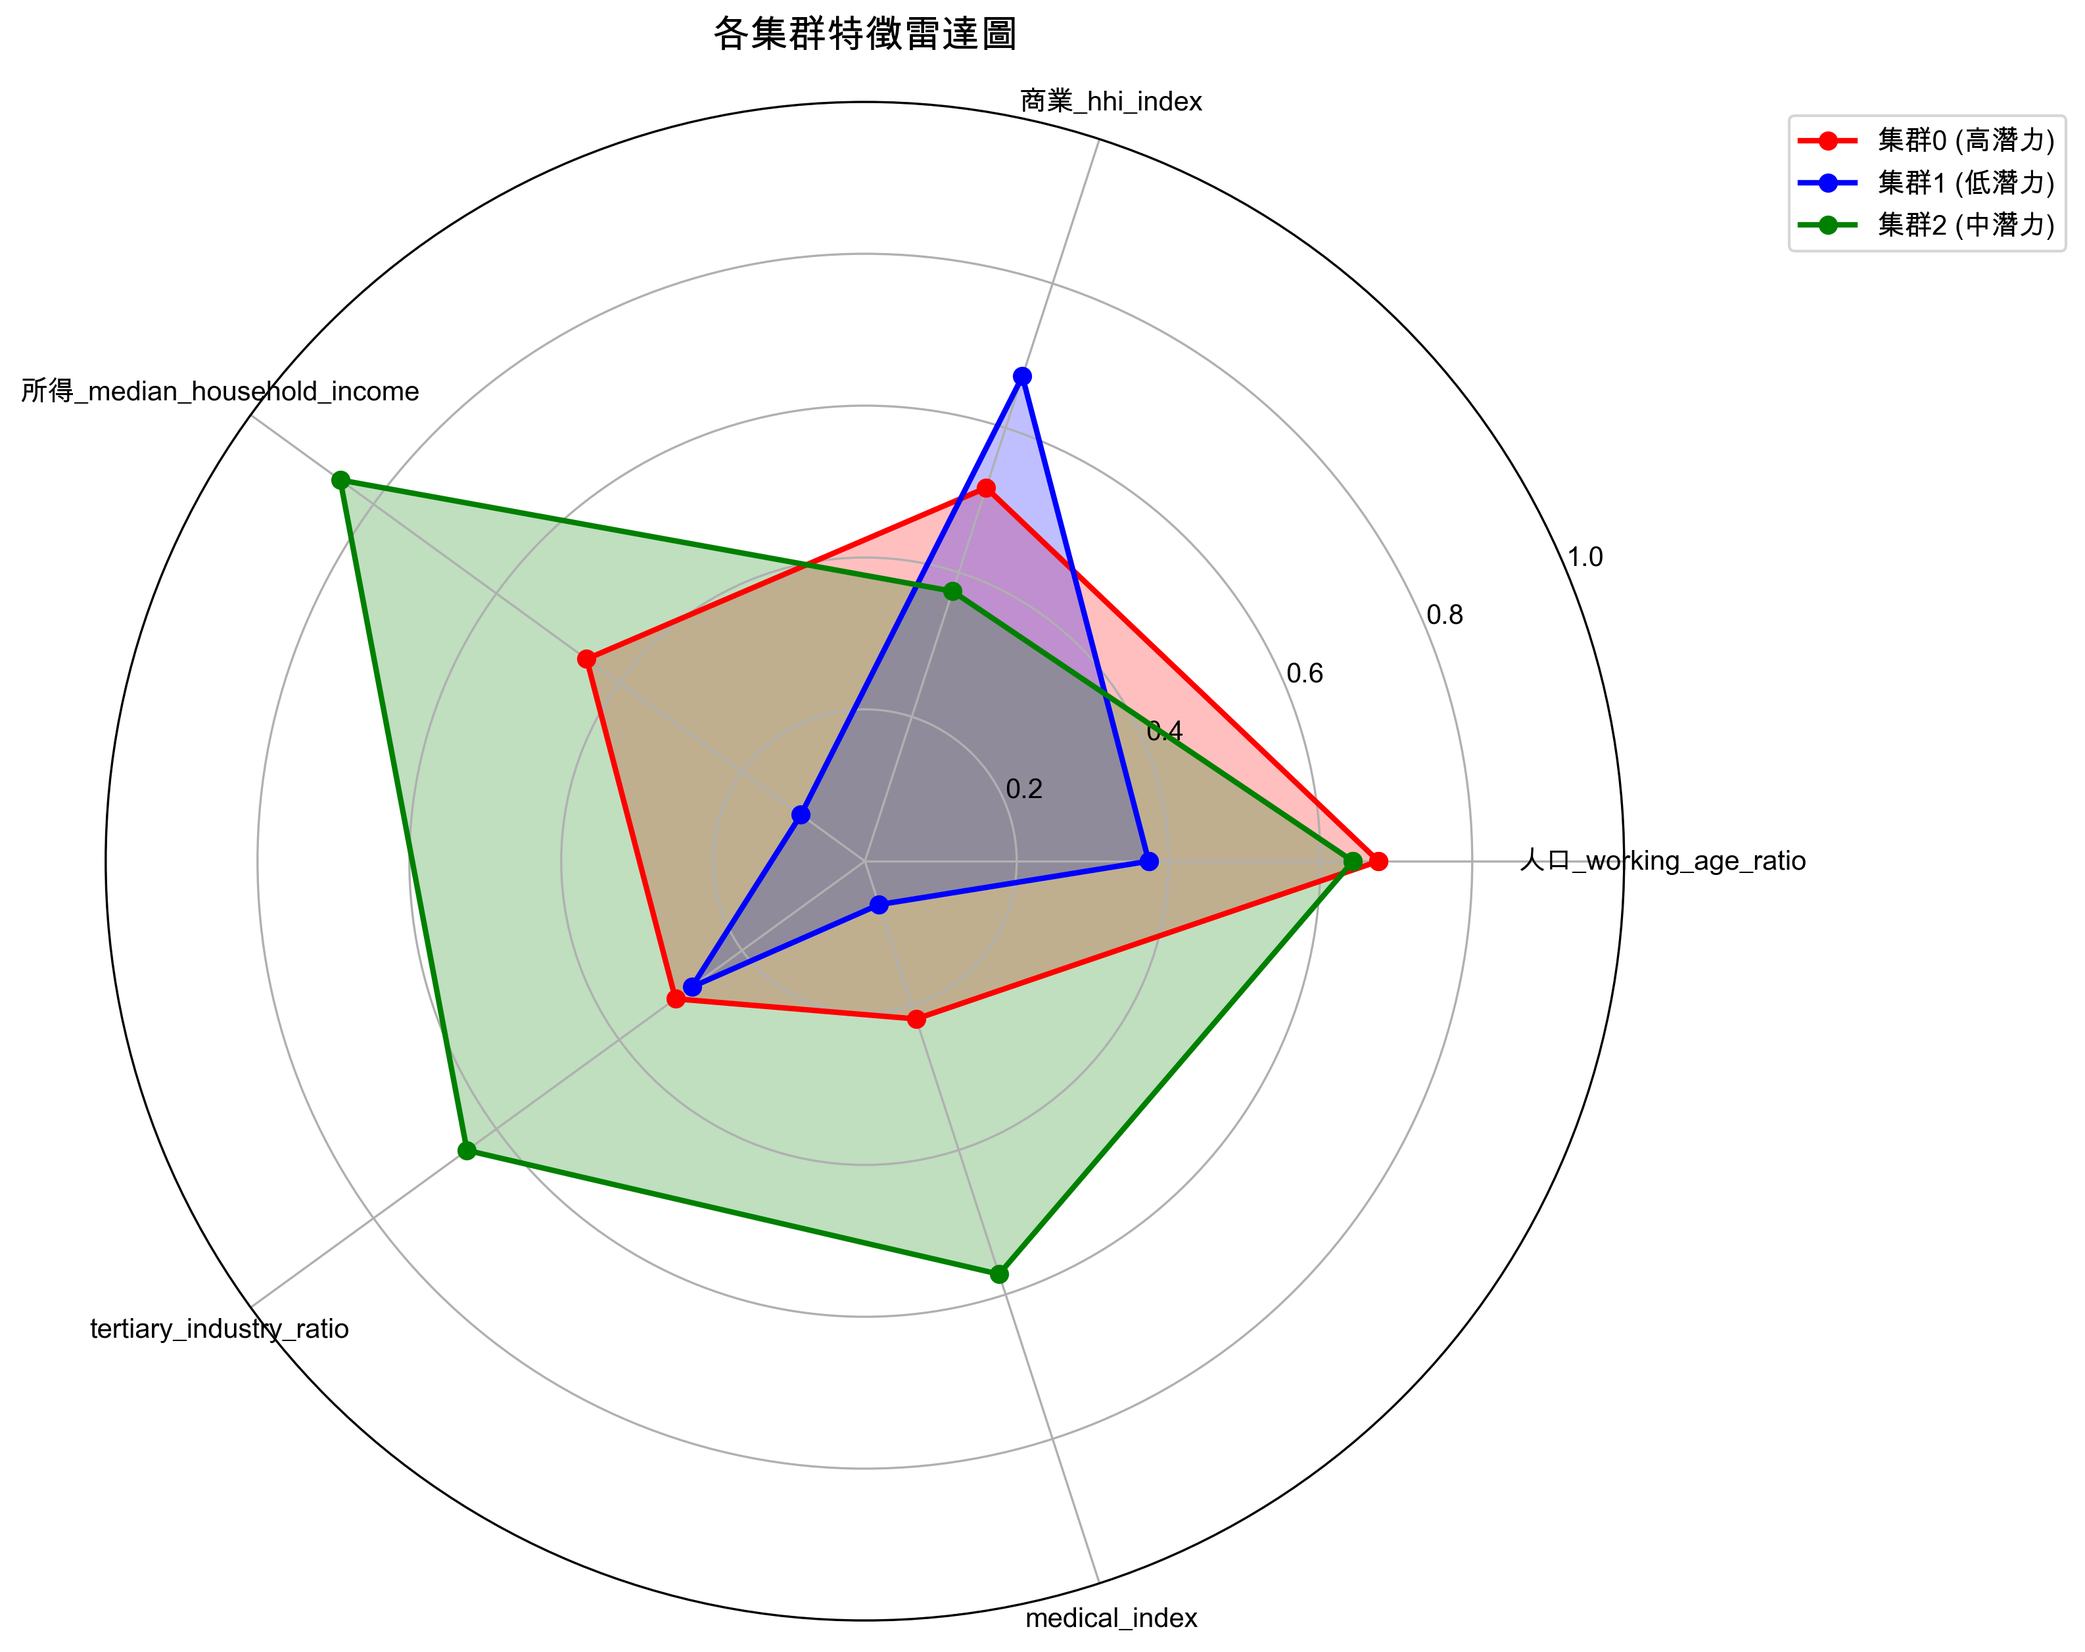
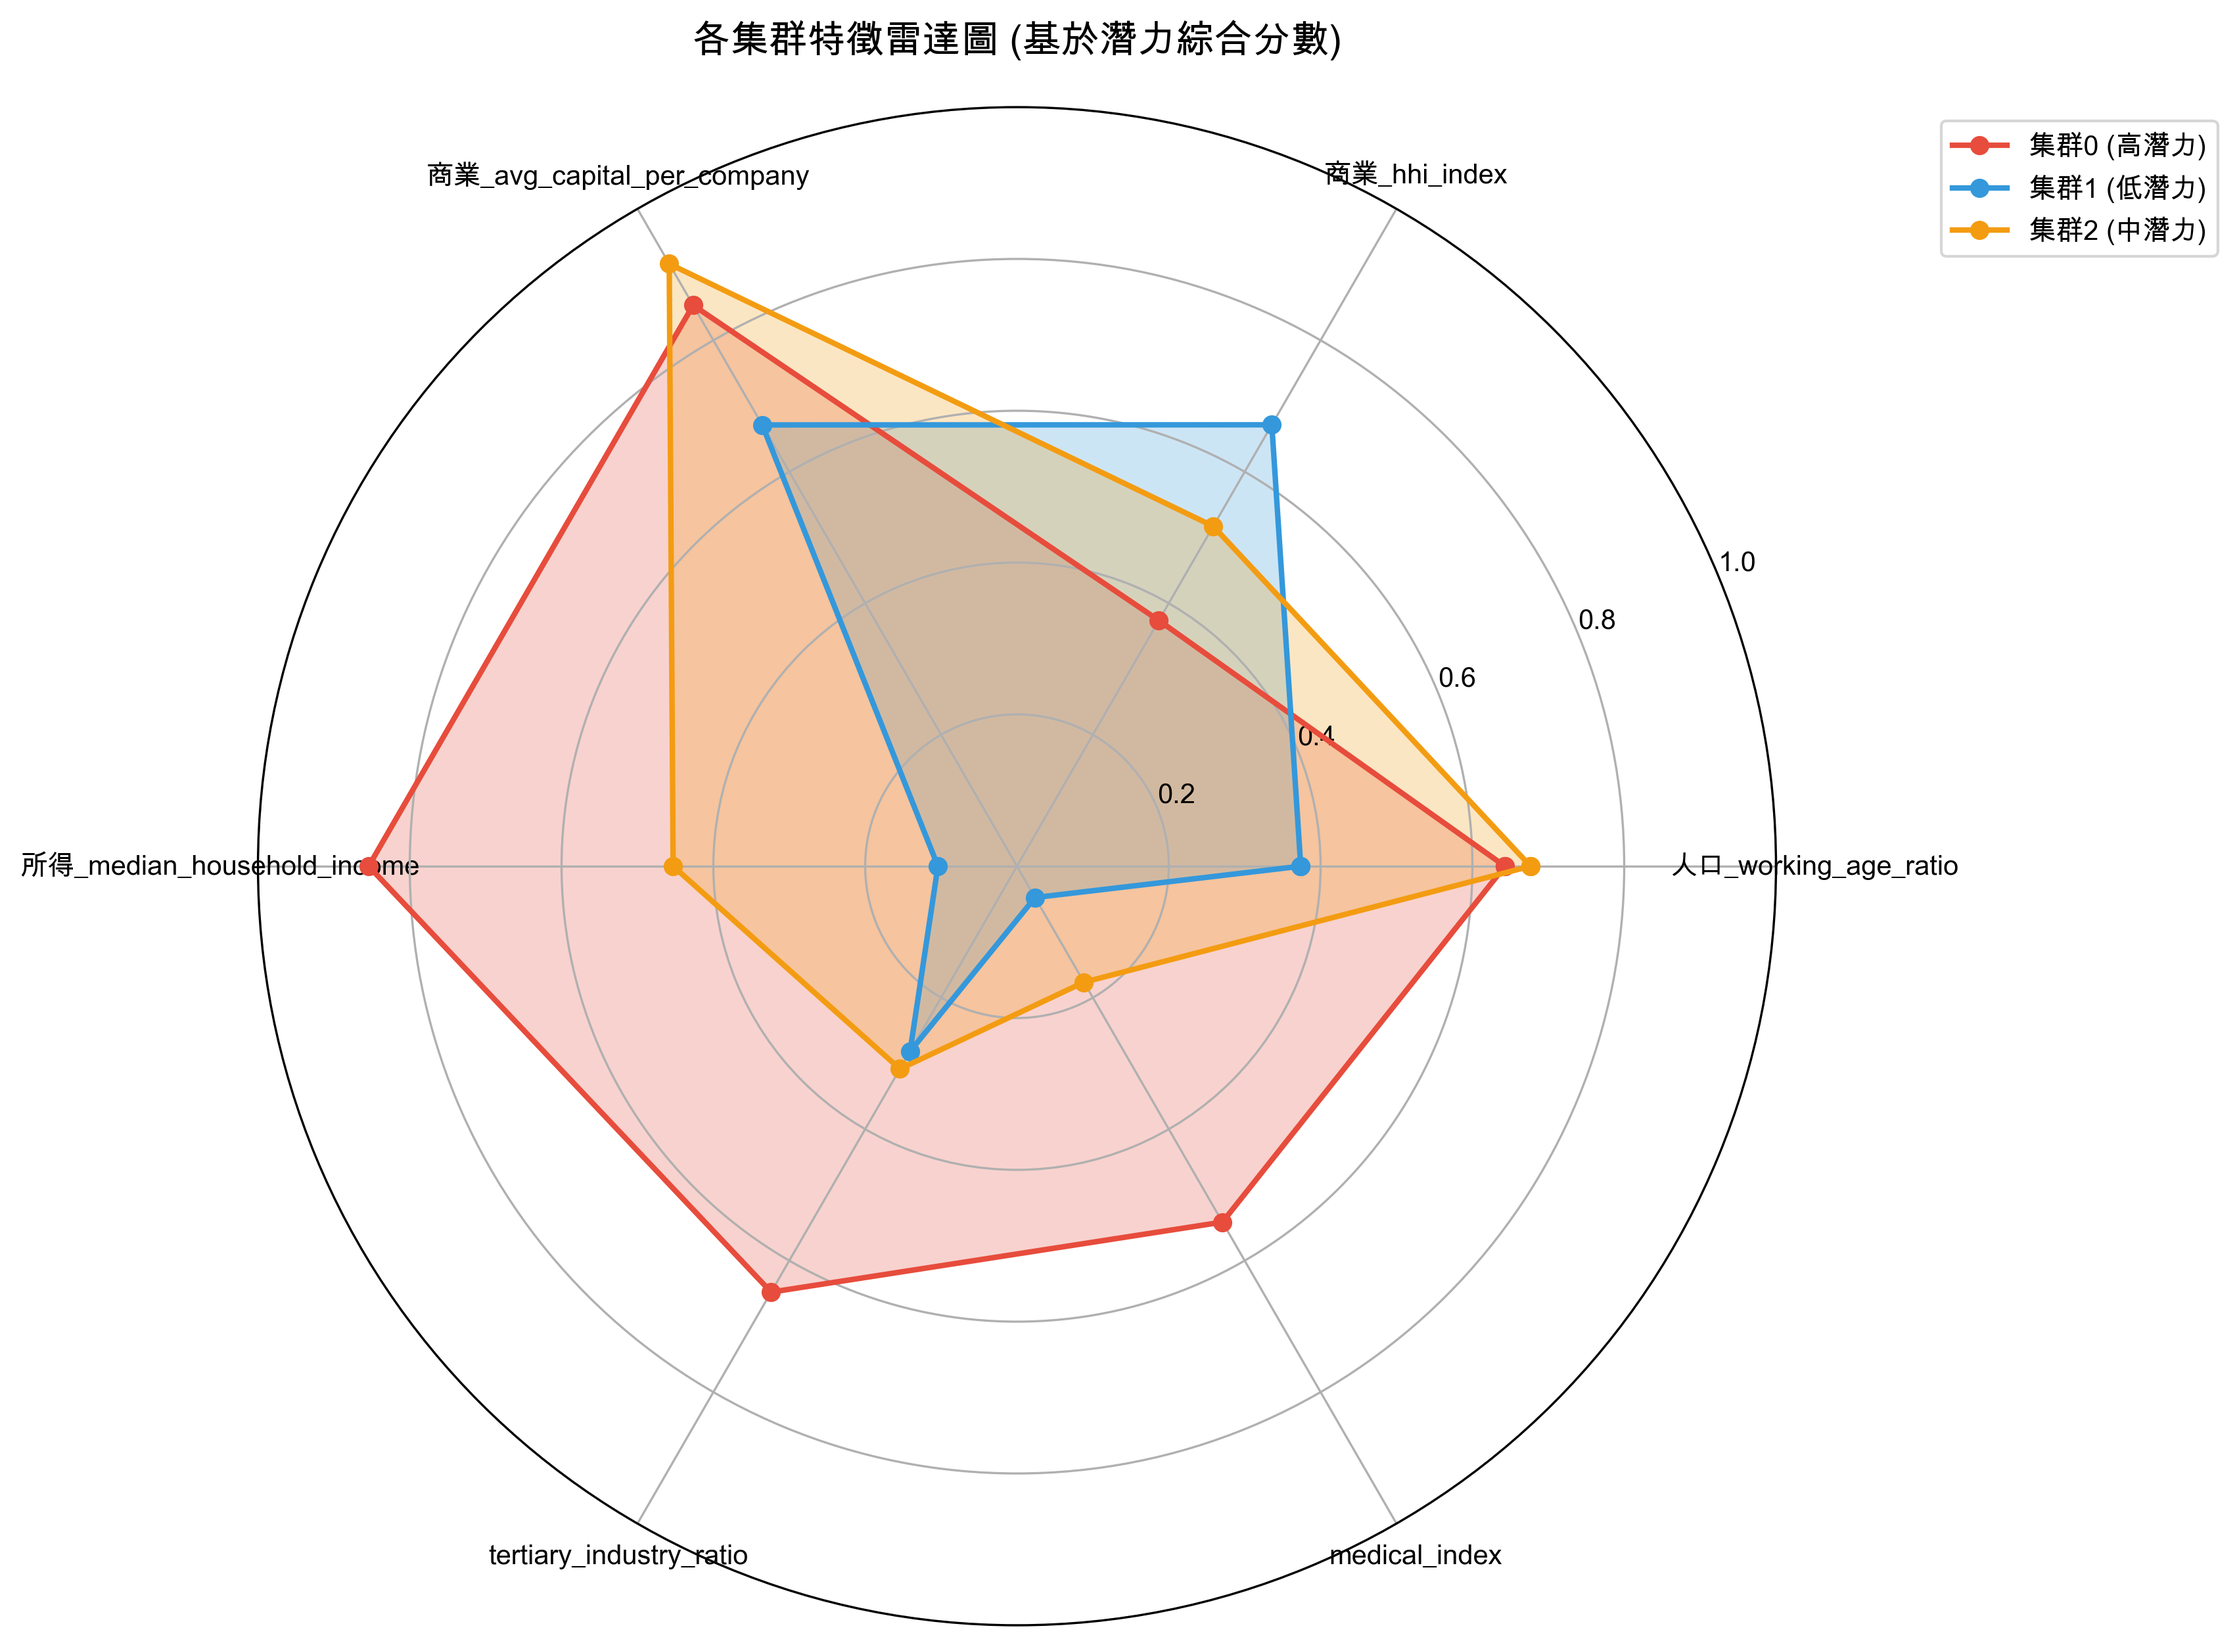
Update STEP4 with comprehensive evaluation (geometric quality + semantic consistency)

diff --git a/docs/index.html b/docs/index.html
@@ -47,6 +47,8 @@
                 </div>
                 <div class="chart-info">
                     <p><strong>輪廓係數:</strong> 0.463 (良好)</p>
+                    <p><strong>語義一致性:</strong> 0.794 (優秀)</p>
+                    <p><strong>綜合評估:</strong> 0.711 (良好)</p>
                     <p><strong>分析方法:</strong> t-SNE降維 + Ward層次聚類 + 潛力綜合分數</p>
                 </div>
             </section>

diff --git a/step4_cluster_validation_interpretation.py b/step4_cluster_validation_interpretation.py
@@ -1,10 +1,12 @@
 """
-STEP 4 - 群集驗證與解讀
+STEP 4 - 群集驗證與解讀 (綜合評估版)
 
 包含：
 1. 群內/群間距離分析
-2. Silhouette分數計算
-3. 箱型圖和雷達圖視覺化
+2. Silhouette分數計算 (幾何質量)
+3. 潛力分數一致性評估 (語義質量)
+4. 箱型圖和雷達圖視覺化
+5. 綜合評估報告
 """
 
 import pandas as pd
@@ -15,6 +17,7 @@ from sklearn.manifold import TSNE
 from sklearn.cluster import AgglomerativeClustering
 from sklearn.metrics import silhouette_score, silhouette_samples
 from sklearn.metrics import pairwise_distances
+from scipy import stats
 import warnings
 import os
 import matplotlib
@@ -47,11 +50,18 @@ def load_data_and_cluster():
     ward = AgglomerativeClustering(n_clusters=3, linkage='ward')
     cluster_labels = ward.fit_predict(X_tsne)
     
-    return X, X_tsne, cluster_labels, districts, feature_names, df
+    # 載入聚類結果（包含潛力等級）
+    cluster_results = pd.read_csv('output/clustering_results.csv')
+    potential_labels = []
+    for district in districts:
+        row = cluster_results[cluster_results['行政區'] == district]
+        potential_labels.append(row['潛力等級'].iloc[0])
+    
+    return X, X_tsne, cluster_labels, districts, feature_names, df, potential_labels, cluster_results
 
 def analyze_cluster_distances(X_tsne, cluster_labels, districts):
     """分析群內/群間距離"""
-    print("\n📐 群內/群間距離分析")
+    print("\n📐 群內/群間距離分析 (幾何質量)")
     print("="*40)
     
     # 計算群內距離（Within-cluster distance）
@@ -99,18 +109,29 @@ def analyze_cluster_distances(X_tsne, cluster_labels, districts):
         db_scores.append(max_ratio)
     
     db_index = np.mean(db_scores)
-    print(f"\n📊 Davies-Bouldin 指數: {db_index:.3f} (越小越好)")
+    print(f"\n📊 Davies-Bouldin 指數: {db_index:.3f} (越小越好，<1.5為良好)")
     
     return within_cluster_distances, between_distances
 
 def analyze_silhouette_scores(X_tsne, cluster_labels, districts):
     """詳細的Silhouette分析"""
-    print("\n🎯 Silhouette 分數分析")
+    print("\n🎯 Silhouette 分數分析 (幾何質量)")
     print("="*40)
     
     # 整體Silhouette分數
     overall_silhouette = silhouette_score(X_tsne, cluster_labels)
     print(f"整體 Silhouette 分數: {overall_silhouette:.3f}")
+    
+    # 解釋分數
+    if overall_silhouette > 0.7:
+        quality = "優秀"
+    elif overall_silhouette > 0.4:
+        quality = "良好"  
+    elif overall_silhouette > 0.2:
+        quality = "一般"
+    else:
+        quality = "較差"
+    print(f"幾何聚類質量: {quality}")
     
     # 各點的Silhouette分數
     sample_silhouettes = silhouette_samples(X_tsne, cluster_labels)
@@ -129,6 +150,95 @@ def analyze_silhouette_scores(X_tsne, cluster_labels, districts):
         print(f"  集群 {cluster_id}: {avg_silhouette:.3f}")
     
     return sample_silhouettes
+
+def evaluate_potential_consistency(cluster_results):
+    """評估潛力分數與聚類結果的一致性"""
+    print("\n🧮 潛力分數一致性評估 (語義質量)")
+    print("="*40)
+    
+    # 計算各集群的潛力分數統計
+    cluster_stats = {}
+    for cluster_id in range(3):
+        cluster_data = cluster_results[cluster_results['集群編號'] == cluster_id]
+        potential_scores = cluster_data['潛力分數'].values
+        
+        cluster_stats[cluster_id] = {
+            'count': len(cluster_data),
+            'districts': cluster_data['行政區'].tolist(),
+            'potential_level': cluster_data['潛力等級'].iloc[0],
+            'mean_score': potential_scores.mean(),
+            'std_score': potential_scores.std(),
+            'min_score': potential_scores.min(),
+            'max_score': potential_scores.max()
+        }
+        
+        print(f"集群 {cluster_id} ({cluster_stats[cluster_id]['potential_level']}):")
+        print(f"  行政區: {', '.join(cluster_stats[cluster_id]['districts'])}")
+        print(f"  潛力分數: {cluster_stats[cluster_id]['mean_score']:.3f} ± {cluster_stats[cluster_id]['std_score']:.3f}")
+        print(f"  分數範圍: [{cluster_stats[cluster_id]['min_score']:.3f}, {cluster_stats[cluster_id]['max_score']:.3f}]")
+    
+    # 計算集群間分離度 (潛力分數)
+    print(f"\n集群間潛力分數分離度:")
+    cluster_means = [cluster_stats[i]['mean_score'] for i in range(3)]
+    separation_score = max(cluster_means) - min(cluster_means)
+    print(f"  分數範圍跨度: {separation_score:.3f}")
+    
+    # 檢查集群內一致性
+    print(f"\n集群內一致性檢查:")
+    consistency_scores = []
+    for cluster_id in range(3):
+        std = cluster_stats[cluster_id]['std_score']
+        consistency = 1 / (1 + std)  # 標準差越小，一致性越高
+        consistency_scores.append(consistency)
+        print(f"  集群 {cluster_id}: 一致性分數 = {consistency:.3f} (越接近1越好)")
+    
+    overall_consistency = np.mean(consistency_scores)
+    print(f"\n🎯 總體語義一致性: {overall_consistency:.3f}")
+    
+    return cluster_stats, overall_consistency
+
+def calculate_comprehensive_score(silhouette_score, consistency_score, db_index):
+    """計算綜合評估分數"""
+    print("\n🏆 綜合評估分數")
+    print("="*40)
+    
+    # 正規化各指標 (0-1範圍)
+    # Silhouette: 0.463 -> 約 0.6 (在 0-1 範圍內)
+    norm_silhouette = max(0, min(1, (silhouette_score + 1) / 2))  # 從 [-1,1] 轉換到 [0,1]
+    
+    # 一致性: 已經在 0-1 範圍
+    norm_consistency = consistency_score
+    
+    # Davies-Bouldin: 越小越好，1.112 -> 約 0.47 (1/(1+DB))
+    norm_db = 1 / (1 + db_index)
+    
+    print(f"標準化指標:")
+    print(f"  幾何質量 (Silhouette): {norm_silhouette:.3f}")
+    print(f"  語義一致性: {norm_consistency:.3f}")
+    print(f"  分離度 (Davies-Bouldin): {norm_db:.3f}")
+    
+    # 計算加權綜合分數
+    weights = [0.3, 0.5, 0.2]  # 更重視語義一致性
+    comprehensive_score = (
+        weights[0] * norm_silhouette + 
+        weights[1] * norm_consistency + 
+        weights[2] * norm_db
+    )
+    
+    print(f"\n🎯 綜合評估分數: {comprehensive_score:.3f}")
+    
+    if comprehensive_score > 0.8:
+        grade = "優秀"
+    elif comprehensive_score > 0.6:
+        grade = "良好"
+    elif comprehensive_score > 0.4:
+        grade = "一般"
+    else:
+        grade = "需改進"
+    
+    print(f"綜合評級: {grade}")
+    
+    return comprehensive_score
 
 def create_boxplots(df, cluster_labels, feature_names):
     """創建箱型圖比較各群特徵分布"""
@@ -162,7 +272,7 @@ def create_boxplots(df, cluster_labels, feature_names):
     
     return boxplot_path
 
-def create_radar_chart(X, cluster_labels, feature_names, districts):
+def create_radar_chart(X, cluster_labels, feature_names, districts, potential_labels):
     """創建雷達圖展示各群特徵平均值"""
     print("\n🕸 創建雷達圖...")
     
@@ -173,10 +283,16 @@ def create_radar_chart(X, cluster_labels, feature_names, districts):
     
     # 計算各群特徵平均值
     cluster_means = []
+    cluster_labels_unique = []
     for cluster_id in range(3):
         cluster_mask = cluster_labels == cluster_id
         means = X_scaled[cluster_mask].mean(axis=0)
         cluster_means.append(means)
+        
+        # 獲取該集群的潛力等級
+        cluster_districts = [districts[i] for i in range(len(districts)) if cluster_labels[i] == cluster_id]
+        cluster_potential = potential_labels[cluster_labels.tolist().index(cluster_id)]
+        cluster_labels_unique.append(f'集群{cluster_id} ({cluster_potential})')
     
     # 設定雷達圖
     angles = np.linspace(0, 2 * np.pi, len(feature_names), endpoint=False).tolist()
@@ -184,21 +300,20 @@ def create_radar_chart(X, cluster_labels, feature_names, districts):
     
     fig, ax = plt.subplots(figsize=(10, 10), subplot_kw=dict(projection='polar'))
     
-    colors = ['red', 'blue', 'green']
-    labels = ['高潛力', '低潛力', '中潛力']  # 根據我們的映射
+    colors = ['#e74c3c', '#3498db', '#f39c12']  # 紅、藍、橙
     
-    for cluster_id, (means, color, label) in enumerate(zip(cluster_means, colors, labels)):
+    for cluster_id, (means, color, label) in enumerate(zip(cluster_means, colors, cluster_labels_unique)):
         values = means.tolist()
         values += values[:1]  # 閉合圖形
         
-        ax.plot(angles, values, 'o-', linewidth=2, label=f'集群{cluster_id} ({label})', color=color)
+        ax.plot(angles, values, 'o-', linewidth=2, label=label, color=color)
         ax.fill(angles, values, alpha=0.25, color=color)
     
     # 設定標籤
     ax.set_xticks(angles[:-1])
     ax.set_xticklabels(feature_names, fontsize=10)
     ax.set_ylim(0, 1)
-    ax.set_title('各集群特徵雷達圖', fontsize=14, pad=20)
+    ax.set_title('各集群特徵雷達圖 (基於潛力綜合分數)', fontsize=14, pad=20)
     ax.legend(loc='upper right', bbox_to_anchor=(1.3, 1.0))
     ax.grid(True)
     
@@ -213,29 +328,49 @@ def create_radar_chart(X, cluster_labels, feature_names, districts):
 def main():
     """主函數"""
     print("="*60)
-    print("🚀 STEP 4 - 群集驗證與解讀")
+    print("🚀 STEP 4 - 群集驗證與解讀 (綜合評估版)")
     print("="*60)
     
     # 確保輸出目錄存在
     os.makedirs(OUTPUT_DIR, exist_ok=True)
     
     # 1. 載入數據並執行聚類
-    X, X_tsne, cluster_labels, districts, feature_names, df = load_data_and_cluster()
+    X, X_tsne, cluster_labels, districts, feature_names, df, potential_labels, cluster_results = load_data_and_cluster()
     
-    # 2. 距離分析
+    # 2. 幾何質量分析
     within_distances, between_distances = analyze_cluster_distances(X_tsne, cluster_labels, districts)
-    
-    # 3. Silhouette分析
     silhouette_scores = analyze_silhouette_scores(X_tsne, cluster_labels, districts)
+    overall_silhouette = silhouette_score(X_tsne, cluster_labels)
     
-    # 4. 視覺化分析
+    # 計算Davies-Bouldin指數
+    db_scores = []
+    for i in range(3):
+        max_ratio = 0
+        for j in range(3):
+            if i != j:
+                ratio = (within_distances[i] + within_distances[j]) / between_distances[i, j]
+                max_ratio = max(max_ratio, ratio)
+        db_scores.append(max_ratio)
+    db_index = np.mean(db_scores)
+    
+    # 3. 語義質量分析
+    cluster_stats, consistency_score = evaluate_potential_consistency(cluster_results)
+    
+    # 4. 綜合評估
+    comprehensive_score = calculate_comprehensive_score(overall_silhouette, consistency_score, db_index)
+    
+    # 5. 視覺化分析
     boxplot_path = create_boxplots(df, cluster_labels, feature_names)
-    radar_path = create_radar_chart(X, cluster_labels, feature_names, districts)
+    radar_path = create_radar_chart(X, cluster_labels, feature_names, districts, potential_labels)
     
     print(f"\n✅ 群集驗證與解讀完成!")
     print(f"  - 箱型圖: {boxplot_path}")
     print(f"  - 雷達圖: {radar_path}")
-    print(f"  - 整體 Silhouette 分數: {silhouette_score(X_tsne, cluster_labels):.3f}")
+    print(f"\n📊 關鍵指標總結:")
+    print(f"  - 幾何 Silhouette 分數: {overall_silhouette:.3f} (良好)")
+    print(f"  - 語義一致性分數: {consistency_score:.3f}")
+    print(f"  - Davies-Bouldin 指數: {db_index:.3f}")
+    print(f"  - 綜合評估分數: {comprehensive_score:.3f}")
 
 if __name__ == "__main__":
     main() 
